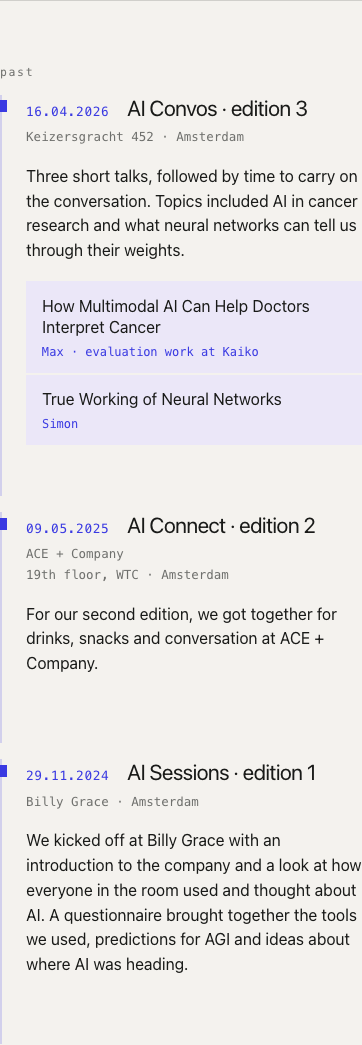
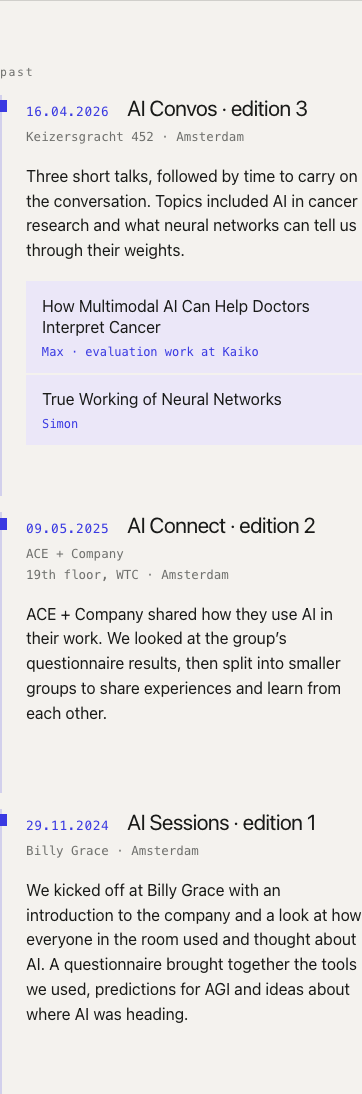
Add edition two format and concise public recap

diff --git a/index.html b/index.html
@@ -294,7 +294,7 @@
           <div class="past-title">AI Connect · edition 2</div>
           <div class="past-meta">ACE + Company<br>19th floor, WTC · Amsterdam</div>
         </div>
-        <p class="past-summary">For our second edition, we got together for drinks, snacks and conversation at ACE + Company.</p>
+        <p class="past-summary">ACE + Company shared how they use AI in their work. We looked at the group’s questionnaire results, then split into smaller groups to share experiences and learn from each other.</p>
       </article>
       <article class="past-event">
         <div class="past-heading">

diff --git a/events/02-ai-connect.md b/events/02-ai-connect.md
@@ -5,6 +5,17 @@
 - Time: conflicting. The location announcement says 19:00–21:30; the earlier save-the-date says 19:30–21:30.
 - Host: confirmed ACE + Company.
 - Venue: confirmed Tower One, 19th floor, WTC Amsterdam, Zuidplein 156, Amsterdam.
-- Format: drinks, snacks, conversation, and optional drinks nearby afterwards. Detailed talk information is unknown.
+- Format: confirmed new format combining a host introduction, practical AI use cases, questionnaire results, and smaller-group conversations. Drinks, snacks, and optional drinks nearby afterwards were also part of the invitation.
 - Historical contribution: €7.90. Do not reuse the old payment request.
-- Questionnaire: [Edition 2 form](https://docs.google.com/forms/d/e/1FAIpQLScGNoS-3vLW-PAuDLEN_Y7lN_0xpkzYNDuX_u0TYMDNuexWyA/viewform?usp=sharing). Whether or how its results were used is unknown.
+- Questionnaire: [Edition 2 form](https://docs.google.com/forms/d/e/1FAIpQLScGNoS-3vLW-PAuDLEN_Y7lN_0xpkzYNDuX_u0TYMDNuexWyA/viewform?usp=sharing). Confirmed: results were discussed with the group, covering attendees’ views on AI and its current use. Exact question wording is not established by the organizer’s recollection.
+
+## Format and content
+
+Confirmed by a follow-up organizer account:
+
+1. ACE + Company introduced what they do, starting with an introduction of their CTO. The CTO’s name is not established in the notes.
+2. Harsh and colleagues explained their work and how they implemented AI within the company. They described using LLMs to identify the most important parts of regulatory documents for clients and help automate regulatory processes. Exact talk titles and the colleagues’ names are unknown.
+3. The group went through the audience questionnaire results, discussing attendees’ views on AI and how it was being used. The account establishes the general subject, not a precise list of questions.
+4. Attendees split into smaller groups to give everyone more opportunity to share and learn from one another.
+
+For the public recap, summarize the host’s work with AI, the questionnaire results, and the smaller-group conversations. Keep the detailed organizer account here rather than reproducing the full agenda on the website.
